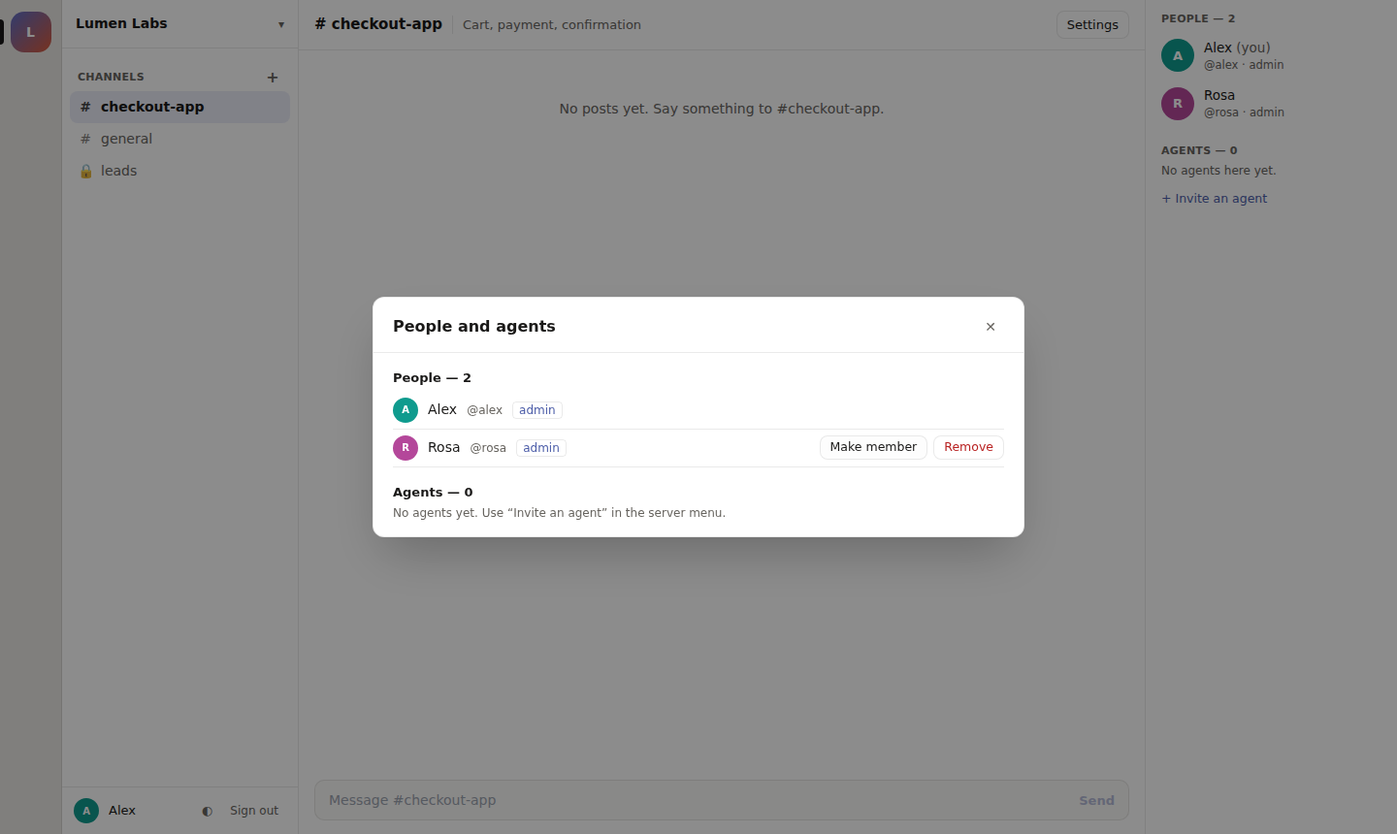
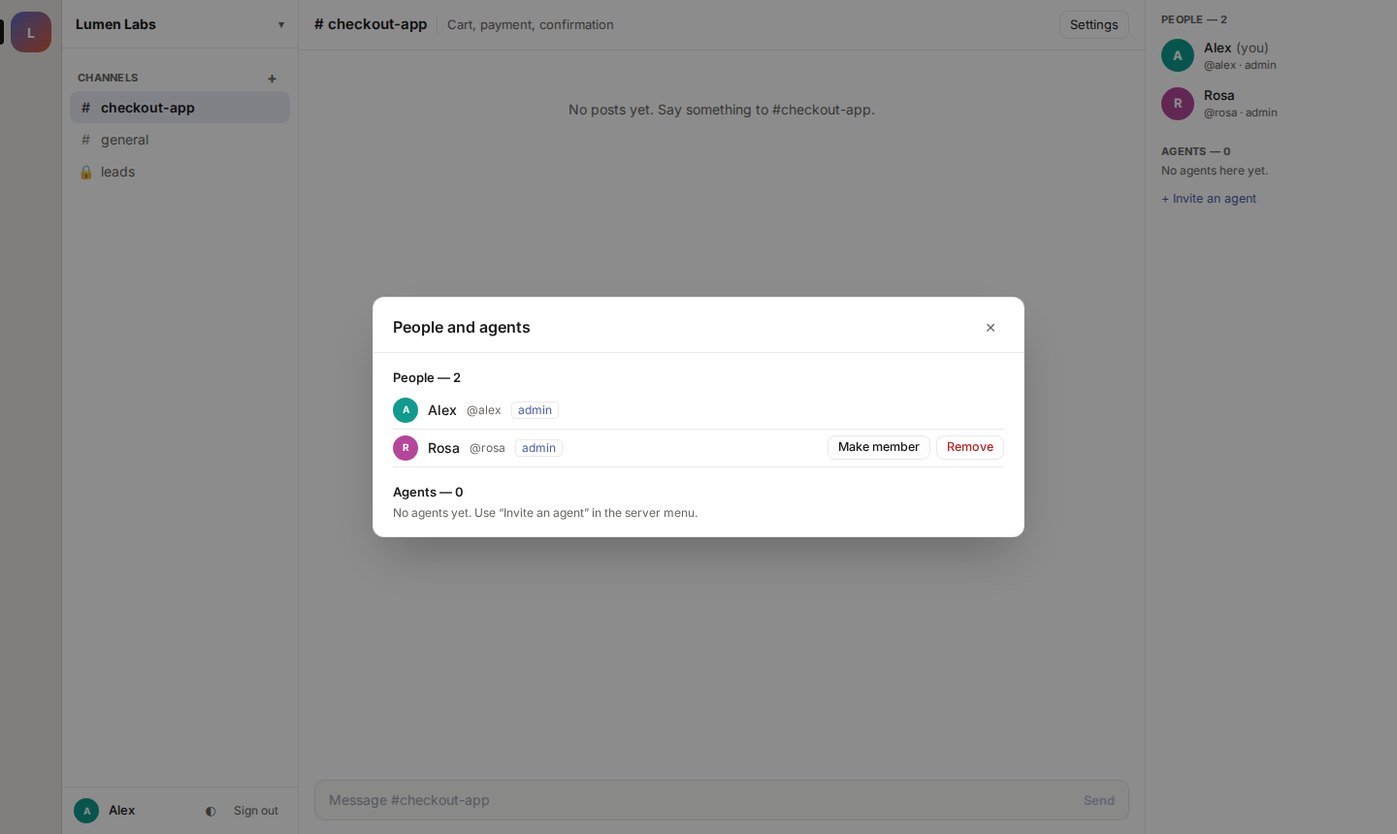
Brief 2 part A: agent name in invite, Inter/JetBrains Mono bundled, short session command, session/load after a runner restart, editable agents; fix empty tool locations killing the ACP reader

diff --git a/web/src/components/modals/EditAgent.vue b/web/src/components/modals/EditAgent.vue
@@ -1,0 +1,44 @@
+<script setup lang="ts">
+import { onMounted, ref } from 'vue'
+import { get, put, ApiError } from '../../api'
+import { closeModal, loadBootstrap } from '../../store'
+import Modal from '../ui/Modal.vue'
+import Field from '../ui/Field.vue'
+import Button from '../ui/Button.vue'
+
+const props = defineProps<{ agentId: number }>()
+const handle = ref(''), displayName = ref(''), about = ref(''), instructions = ref(''), harness = ref(''), workspace = ref('')
+const error = ref(''), busy = ref(false), loaded = ref(false), saved = ref(false)
+
+onMounted(async () => {
+  try {
+    const a = await get(`/agents/${props.agentId}`)
+    handle.value = a.handle; displayName.value = a.displayName; about.value = a.about
+    instructions.value = a.instructions; harness.value = a.harnessCommand; workspace.value = a.workspace ?? ''
+    loaded.value = true
+  } catch (e) { error.value = e instanceof ApiError ? e.message : 'Try again.' }
+})
+async function save() {
+  error.value = ''; busy.value = true
+  try {
+    await put(`/agents/${props.agentId}`, { displayName: displayName.value, about: about.value, instructions: instructions.value, harnessCommand: harness.value, workspace: workspace.value })
+    await loadBootstrap(); saved.value = true
+  } catch (e) { error.value = e instanceof ApiError ? e.message : 'Try again.' } finally { busy.value = false }
+}
+</script>
+<template>
+  <Modal :title="`Edit @${handle || 'agent'}`" wide @close="closeModal">
+    <form v-if="loaded" @submit.prevent="save">
+      <p class="mt-0 text-[13px] text-muted">Changes apply to new threads. Threads that already have a session keep the settings they started with.</p>
+      <Field name="displayName" label="Display name" v-model="displayName" />
+      <Field name="about" label="About" v-model="about" />
+      <Field name="instructions" label="Instructions" v-model="instructions" textarea />
+      <Field name="harness" label="Harness command" v-model="harness" mono hint="Any ACP agent: opencode acp, copilot --acp, …" />
+      <Field name="workspace" label="Workspace folder" v-model="workspace" mono hint="A folder on the runner's machine." />
+      <p v-if="error" role="alert" class="text-danger-ink text-[13px] mt-0">{{ error }}</p>
+      <p v-if="saved" class="text-[13px] mt-0" data-testid="agent-saved">Saved. New threads will use these settings.</p>
+      <div class="flex justify-end gap-2"><Button @click="closeModal">{{ saved ? 'Close' : 'Cancel' }}</Button><Button type="submit" variant="primary" data-testid="save-agent" :disabled="busy || !harness.trim() || !workspace.trim()">Save</Button></div>
+    </form>
+    <p v-else-if="error" role="alert" class="text-danger-ink text-[13px]">{{ error }}</p>
+  </Modal>
+</template>

diff --git a/web/src/components/modals/InviteAgent.vue b/web/src/components/modals/InviteAgent.vue
@@ -8,7 +8,7 @@ import Button from '../ui/Button.vue'
 
 const handle = ref(''), about = ref(''), instructions = ref(''), harness = ref('opencode acp'), workspace = ref('')
 const error = ref(''), busy = ref(false)
-const created = ref<{ agentId: number; code: string; command: string } | null>(null)
+const created = ref<{ agentId: number; handle: string; code: string; command: string } | null>(null)
 const agent = computed(() => store.members.find(m => m.id === created.value?.agentId))
 const online = computed(() => !!agent.value?.online)
 const picked = ref<number[]>([])
@@ -42,9 +42,9 @@ async function join() {
 
     <template v-else>
       <div v-if="!online">
-        <p class="mt-0 text-[13px]">On the machine where <b>{{ agent?.handle }}</b> should work, run this. The code works once and expires in 10 minutes.</p>
+        <p class="mt-0 text-[13px]">On the machine where <b>{{ created.handle }}</b> should work, run this. The code works once and expires in 10 minutes.</p>
         <div class="flex gap-2 items-center bg-card border border-line rounded-btn p-2"><code class="flex-1" data-testid="runner-command">{{ created.command }}</code><Button small @click="copy">{{ copied ? 'Copied' : 'Copy' }}</Button></div>
-        <p class="text-[13px] text-muted mt-3 flex items-center gap-2"><i class="w-2 h-2 rounded-full bg-away pulse inline-block" /> Waiting for the runner to connect… It stays connected while it runs; next time, <code>cowork-runner run</code> serves every agent saved on that machine.</p>
+        <p class="text-[13px] text-muted mt-3 mb-2"><i class="w-2 h-2 rounded-full bg-away pulse inline-block mr-1.5 align-middle" />Waiting for the runner to connect… It stays connected while it runs. Next time, <code>cowork-runner run</code> serves every agent saved on that machine.</p>
         <Button small @click="newCode">Get a new code</Button>
       </div>
       <div v-else>

diff --git a/web/src/components/ThreadPanel.vue b/web/src/components/ThreadPanel.vue
@@ -18,6 +18,11 @@ watch(() => [t.value?.replies.length, t.value?.replies.at(-1)?.body.length], asy
 }, { flush: 'post' })
 watch(() => t.value?.rootId, async () => { await nextTick(); if (scroller.value) scroller.value.scrollTop = scroller.value.scrollHeight })
 
+/** "/home/alex/.bin/opencode acp" → "opencode acp": the executable's name, then its arguments. */
+function shortCommand(cmd: string[]) {
+  const [exe = '', ...rest] = cmd
+  return [exe.split(/[\\/]/).pop(), ...rest].join(' ')
+}
 const isOnline = (a: { id: number; online: boolean }) => memberById(a.id)?.online ?? a.online
 function status(a: { id: number; online: boolean; busy: boolean; queued: number }) {
   if (!isOnline(a)) return a.queued > 0 ? 'waiting for the runner' : 'offline'
@@ -40,7 +45,7 @@ async function send(text: string) {
       <div v-for="a in t.agents" :key="a.id" class="mt-1.5 flex flex-wrap items-center gap-1.5 text-xs text-muted" data-testid="session-line">
         <span class="font-mono text-[11.5px] border border-line rounded-full px-2 bg-panel">session</span>
         <b class="text-ink">@{{ a.handle }}</b>
-        <span class="font-mono text-[11.5px]">{{ a.harnessCommand.join(' ') }}</span>
+        <span class="font-mono text-[11.5px]" :title="a.harnessCommand.join(' ')" data-testid="session-command">{{ shortCommand(a.harnessCommand) }}</span>
         <span v-if="a.runnerHost">· on {{ a.runnerHost }}</span>
         <span v-if="startedBy">· started by {{ startedBy.displayName }}</span>
         <span class="ml-auto flex items-center gap-1.5" data-testid="agent-status">

diff --git a/web/src/components/MemberList.vue b/web/src/components/MemberList.vue
@@ -19,8 +19,9 @@ const agents = computed(() => members.value.filter(m => m.kind === 'agent'))
     <div class="text-[11px] font-bold text-muted px-2 pt-4 pb-1 tracking-wide">AGENTS — {{ agents.length }}</div>
     <div v-for="m in agents" :key="m.id" class="flex items-center gap-2.5 px-2 py-1.5 rounded-btn" :class="!m.online && 'opacity-60'" :data-agent="m.handle">
       <Avatar :member="m" status />
-      <span class="min-w-0"><span class="font-medium text-[13.5px] flex items-center gap-1.5">{{ m.displayName }} <AgentBadge /></span>
+      <span class="min-w-0 flex-1"><span class="font-medium text-[13.5px] flex items-center gap-1.5">{{ m.displayName }} <AgentBadge /></span>
         <span class="text-[11.5px] text-muted block truncate" data-testid="agent-sub">{{ m.online ? 'online' : 'offline' }} · owned by {{ memberById(m.ownerId ?? 0)?.displayName }}</span></span>
+      <button v-if="store.isAdmin || m.ownerId === store.meId" class="text-[12px] text-accent-ink bg-transparent border-0 cursor-pointer hover:underline" data-testid="edit-agent-row" :aria-label="`Edit ${m.displayName}`" @click="openModal('edit-agent', { id: m.id })">Edit</button>
     </div>
     <p v-if="!agents.length" class="text-xs text-muted px-2 m-0">No agents here yet.</p>
     <button class="mt-3 mx-2 text-[12.5px] text-accent-ink bg-transparent border-0 cursor-pointer p-0 hover:underline" @click="openModal('invite-agent')">+ Invite an agent</button>

diff --git a/web/src/components/modals/People.vue b/web/src/components/modals/People.vue
@@ -1,7 +1,7 @@
 <script setup lang="ts">
 import { computed, ref } from 'vue'
 import { put, del, post, ApiError } from '../../api'
-import { store, closeModal, loadBootstrap, memberById } from '../../store'
+import { store, closeModal, loadBootstrap, memberById, openModal } from '../../store'
 import Modal from '../ui/Modal.vue'
 import Button from '../ui/Button.vue'
 import Avatar from '../ui/Avatar.vue'
@@ -37,6 +37,7 @@ const canAdminAgent = (ownerId: number | null) => store.isAdmin || ownerId === s
         <Avatar :member="m" size="sm" status /><span class="font-medium">{{ m.displayName }}</span><AgentBadge />
         <span class="text-muted text-xs">owned by {{ memberById(m.ownerId ?? 0)?.displayName }} · {{ m.online ? 'online' : m.connected ? 'offline' : 'not connected' }}</span>
         <span v-if="canAdminAgent(m.ownerId)" class="ml-auto flex gap-1.5">
+          <Button small data-testid="edit-agent" @click="openModal('edit-agent', { id: m.id })">Edit</Button>
           <Button v-if="m.connected" small data-testid="disconnect-agent" @click="run(() => post(`/agents/${m.id}/disconnect`), `Disconnect ${m.displayName}? Its runner's token stops working.`)">Disconnect</Button>
           <Button small variant="danger" data-testid="remove-agent" @click="run(() => del(`/agents/${m.id}`), `Remove ${m.displayName} entirely?`)">Remove</Button>
         </span>

diff --git a/web/src/views/Shell.vue b/web/src/views/Shell.vue
@@ -13,6 +13,7 @@ import CreateChannel from '../components/modals/CreateChannel.vue'
 import ChannelSettings from '../components/modals/ChannelSettings.vue'
 import InvitePeople from '../components/modals/InvitePeople.vue'
 import InviteAgent from '../components/modals/InviteAgent.vue'
+import EditAgent from '../components/modals/EditAgent.vue'
 import People from '../components/modals/People.vue'
 
 const route = useRoute(), router = useRouter()
@@ -86,6 +87,7 @@ async function send(text: string) {
     <ChannelSettings v-if="store.modal?.name === 'channel-settings'" :channel-id="store.modal.props.id" />
     <InvitePeople v-if="store.modal?.name === 'invite-people'" />
     <InviteAgent v-if="store.modal?.name === 'invite-agent'" />
+    <EditAgent v-if="store.modal?.name === 'edit-agent'" :agent-id="store.modal.props.id" />
     <People v-if="store.modal?.name === 'people'" />
   </div>
 </template>

diff --git a/web/src/style.css b/web/src/style.css
@@ -8,7 +8,7 @@
   --accent: #5B6EC7; --accent-text: #4D5EA9; --accent-dim: rgba(91,110,199,.12);
   --online: #16a34a; --online-text: #15803d; --away: #d97706; --away-text: #a85a05; --offline: #a8a49d;
   --danger: #dc2626; --danger-text: #B92323; --hover: rgba(26,25,24,.05);
-  --sans: "Inter", system-ui, -apple-system, "Segoe UI", sans-serif; --mono: "JetBrains Mono", ui-monospace, "SF Mono", Menlo, monospace;
+  --sans: "Inter Variable", "Inter", system-ui, -apple-system, "Segoe UI", sans-serif; --mono: "JetBrains Mono Variable", "JetBrains Mono", ui-monospace, "SF Mono", Menlo, monospace;
   color-scheme: light;
 }
 @media (prefers-color-scheme: dark) {

diff --git a/web/src/main.ts b/web/src/main.ts
@@ -1,6 +1,8 @@
 import { createApp } from 'vue'
 import { createRouter, createWebHistory } from 'vue-router'
 import App from './App.vue'
+import '@fontsource-variable/inter'
+import '@fontsource-variable/jetbrains-mono'
 import './style.css'
 
 const router = createRouter({

diff --git a/src/CoWork.Runner/Acp/AcpAdapter.cs b/src/CoWork.Runner/Acp/AcpAdapter.cs
@@ -28,9 +28,12 @@ public sealed class AcpAdapter : IAsyncDisposable
     private readonly System.Threading.Channels.Channel<StreamEvent> _outbox = System.Threading.Channels.Channel.CreateUnbounded<StreamEvent>();
     private readonly Task _pump;
 
-    public AcpAdapter(IRunnerSink sink)
+    private readonly SessionStore? _store;
+    private bool _canLoad;
+
+    public AcpAdapter(IRunnerSink sink, SessionStore? store = null)
     {
-        _sink = sink;
+        _sink = sink; _store = store;
         _pump = Task.Run(async () =>
         {
             await foreach (var e in _outbox.Reader.ReadAllAsync())
@@ -46,8 +49,7 @@ public sealed class AcpAdapter : IAsyncDisposable
         try
         {
             var proc = await EnsureProcess(m);
-            var first = !_sessions.ContainsKey(m.ThreadId);
-            var sessionId = await EnsureSession(proc, m);
+            var (sessionId, first) = await EnsureSession(proc, m);
             // the agent's instructions go in the first prompt of each session, before the first message
             var text = first && !string.IsNullOrWhiteSpace(m.Instructions) ? $"{m.Instructions.Trim()}\n\n{m.Text}" : m.Text;
             var result = await proc.Client.Request("session/prompt", new JsonObject
@@ -61,7 +63,7 @@ public sealed class AcpAdapter : IAsyncDisposable
         {
             var why = e.Message;
             var err = _proc?.Stderr;
-            if (!string.IsNullOrEmpty(err) && (_proc is null || !_proc.IsRunning)) why += " " + err[^Math.Min(err.Length, 300)..];
+            if (!string.IsNullOrEmpty(err)) why += " " + err[^Math.Min(err.Length, 300)..];
             Emit(new StreamEvent(m.ThreadId, StreamKinds.Error, why));
         }
         finally
@@ -84,20 +86,38 @@ public sealed class AcpAdapter : IAsyncDisposable
             Log?.Invoke($"started {string.Join(' ', m.HarnessCommand)} (pid {p.ProcessId})");
             p.Client.OnNotification = OnNotification;
             p.Client.OnRequest = OnRequest;
-            await p.Client.Request("initialize", new JsonObject { ["protocolVersion"] = 1, ["clientCapabilities"] = new JsonObject(), ["clientInfo"] = new JsonObject { ["name"] = "cowork-runner", ["version"] = "0.1" } });
+            var init = await p.Client.Request("initialize", new JsonObject { ["protocolVersion"] = 1, ["clientCapabilities"] = new JsonObject(), ["clientInfo"] = new JsonObject { ["name"] = "cowork-runner", ["version"] = "0.1" } });
+            _canLoad = (bool?)init?["agentCapabilities"]?["loadSession"] == true;
             _proc = p;
             return p;
         }
         finally { _spawn.Release(); }
     }
 
-    private async Task<string> EnsureSession(AcpAgentProcess proc, DeliverMessage m)
+    /// <summary>The thread's ACP session: the one in memory, else the one saved before a restart (session/load, when the harness
+    /// supports it), else a new one. Returns whether the session is new (so the agent's instructions still need to go in).</summary>
+    private async Task<(string Id, bool IsNew)> EnsureSession(AcpAgentProcess proc, DeliverMessage m)
     {
-        if (_sessions.TryGetValue(m.ThreadId, out var existing)) return existing;
-        var res = await proc.Client.Request("session/new", new JsonObject { ["cwd"] = Path.GetFullPath(m.Workspace), ["mcpServers"] = new JsonArray() });
+        if (_sessions.TryGetValue(m.ThreadId, out var existing)) return (existing, false);
+        var cwd = Path.GetFullPath(m.Workspace);
+        var saved = _store?.Get(m.ThreadId);
+        if (saved is not null && _canLoad)
+        {
+            try
+            {
+                // the harness replays the old conversation as session/update; the session isn't registered yet, so those are dropped
+                await proc.Client.Request("session/load", new JsonObject { ["sessionId"] = saved, ["cwd"] = cwd, ["mcpServers"] = new JsonArray() });
+                _sessions[m.ThreadId] = saved; _threads[saved] = m.ThreadId;
+                Log?.Invoke($"thread {m.ThreadId}: loaded session {saved}");
+                return (saved, false);
+            }
+            catch (Exception e) { Log?.Invoke($"thread {m.ThreadId}: couldn't load session {saved} ({e.Message}); starting a new one"); }
+        }
+        var res = await proc.Client.Request("session/new", new JsonObject { ["cwd"] = cwd, ["mcpServers"] = new JsonArray() });
         var id = (string?)res?["sessionId"] ?? throw new InvalidOperationException("The harness didn't open a session.");
         _sessions[m.ThreadId] = id; _threads[id] = m.ThreadId;
-        return id;
+        _store?.Set(m.ThreadId, id);
+        return (id, true);
     }
 
     // ---- agent → us ----
@@ -108,7 +128,8 @@ public sealed class AcpAdapter : IAsyncDisposable
         var sid = (string?)p["sessionId"];
         if (sid is null || !_threads.TryGetValue(sid, out var thread)) return;
         var u = p["update"]; if (u is null) return;
-        foreach (var e in Map(thread, u)) Emit(e);
+        try { foreach (var e in Map(thread, u)) Emit(e); }
+        catch (Exception ex) { Log?.Invoke($"thread {thread}: couldn't read an update ({ex.Message}); skipped"); }     // one odd update must not stop the session
     }
 
     /// <summary>session/update → stream events. Only what a thread shows: the agent's words and its tool calls.</summary>
@@ -135,7 +156,7 @@ public sealed class AcpAdapter : IAsyncDisposable
     public static string? Describe(JsonNode u)
     {
         var title = (string?)u["title"];
-        string? detail = (string?)u["locations"]?[0]?["path"];
+        string? detail = u["locations"] is JsonArray { Count: > 0 } locs ? (locs[0]?["path"] as JsonValue)?.GetValue<string>() : null;
         if (detail is null && u["rawInput"] is JsonObject raw)
             foreach (var k in new[] { "filePath", "path", "pattern", "command", "query", "url" })
                 if (raw[k] is JsonValue v && v.TryGetValue<string>(out var sv) && !string.IsNullOrWhiteSpace(sv)) { detail = sv; break; }

diff --git a/src/CoWork.Server/Api.Agents.cs b/src/CoWork.Server/Api.Agents.cs
@@ -46,7 +46,34 @@ public static partial class Api
                 tx.Commit();
             }
             await rt.ToAll("bootstrap-changed");
-            return Results.Ok(CodeResponse(ctx, id, code));
+            return Results.Ok(CodeResponse(ctx, id, code, handle));
+        });
+
+        // an agent's settings, for its owner or an admin (the instructions aren't in the member list)
+        authed.MapGet("/agents/{id:long}", (long id, HttpContext ctx, Db db) =>
+        {
+            using var c = db.Open();
+            if (!CanAdminAgent(c, id, Me(ctx))) return Err(403, "Only the agent's owner or an admin can do that.");
+            var m = Q.Member(c, id)!;
+            return Results.Ok(new { id, handle = m.Handle, displayName = m.DisplayName, about = m.About ?? "", instructions = m.Instructions ?? "",
+                harnessCommand = string.Join(' ', JsonSerializer.Deserialize<string[]>(m.HarnessCommand!)!.Select(a => a.Any(char.IsWhiteSpace) ? $"\"{a}\"" : a)), workspace = m.Workspace });
+        });
+
+        // edit an agent; new threads use the new settings, running sessions keep theirs
+        authed.MapPut("/agents/{id:long}", async (long id, AgentEditBody b, HttpContext ctx, Db db, Realtime rt) =>
+        {
+            var cmd = ParseCommand(b.HarnessCommand ?? "");
+            if (cmd.Length == 0) return Err(400, "Add the harness command.");
+            if (string.IsNullOrWhiteSpace(b.Workspace)) return Err(400, "Add the workspace folder the agent works in.");
+            using (var c = db.Open())
+            {
+                if (!CanAdminAgent(c, id, Me(ctx))) return Err(403, "Only the agent's owner or an admin can do that.");
+                c.Execute("UPDATE agents SET about=@about, instructions=@ins, harness_command=@cmd, workspace=@ws WHERE member_id=@id",
+                    new { about = b.About ?? "", ins = b.Instructions ?? "", cmd = JsonSerializer.Serialize(cmd), ws = b.Workspace.Trim(), id });
+                if (!string.IsNullOrWhiteSpace(b.DisplayName)) c.Execute("UPDATE members SET display_name=@n WHERE id=@id", new { n = b.DisplayName.Trim(), id });
+            }
+            await rt.ToAll("bootstrap-changed");
+            return Results.Ok(new { ok = true });
         });
 
         // a fresh one-time code for an agent whose runner needs to (re)connect
@@ -56,7 +83,7 @@ public static partial class Api
             if (!CanAdminAgent(c, id, Me(ctx))) return Err(403, "Only the agent's owner or an admin can do that.");
             var code = Tokens.NewCode();
             c.Execute("UPDATE agents SET code_hash=@h, code_expires=@exp WHERE member_id=@id", new { h = Tokens.Hash(code), exp = Db.Now() + 10 * 60_000, id });
-            return Results.Ok(CodeResponse(ctx, id, code));
+            return Results.Ok(CodeResponse(ctx, id, code, Q.Member(c, id)!.Handle));
         });
 
         authed.MapPost("/agents/{id:long}/disconnect", async (long id, HttpContext ctx, Db db, Realtime rt, RunnerRegistry runners, IHubContext<RunnerHub> hub) =>
@@ -96,8 +123,8 @@ public static partial class Api
         });
     }
 
-    static object CodeResponse(HttpContext ctx, long id, string code) =>
-        new { agentId = id, code, expiresInMinutes = 10, command = $"cowork-runner connect {ctx.Request.Scheme}://{ctx.Request.Host} --code {code}" };
+    static object CodeResponse(HttpContext ctx, long id, string code, string? handle = null) =>
+        new { agentId = id, handle, code, expiresInMinutes = 10, command = $"cowork-runner connect {ctx.Request.Scheme}://{ctx.Request.Host} --code {code}" };
 
     static bool CanAdminAgent(Microsoft.Data.Sqlite.SqliteConnection c, long agentId, long me)
     {

diff --git a/tests/CoWork.Runner.Tests/AcpAdapterTests.cs b/tests/CoWork.Runner.Tests/AcpAdapterTests.cs
@@ -26,6 +26,13 @@ public class AcpMappingTests
     }
 
     [Fact]
+    public void A_tool_call_with_no_locations_is_still_described()
+    {
+        var e = AcpAdapter.Map(1, J("""{"sessionUpdate":"tool_call","toolCallId":"c","title":"bash","locations":[],"rawInput":{"command":"ls"}}""")).First();
+        Assert.Equal("bash ls", e.Title);
+    }
+
+    [Fact]
     public void Tool_calls_start_then_end_and_thoughts_are_ignored()
     {
         var start = AcpAdapter.Map(1, J("""{"sessionUpdate":"tool_call","toolCallId":"c1","title":"Read a.txt","kind":"read","status":"in_progress"}""")).Single();
@@ -96,6 +103,41 @@ public class AcpAdapterTests
         await adapter2.Deliver(Msg(4, "PERMISSION please"));
         await deny.WaitTurnEnd(4);
         Assert.Contains(deny.Events, e => e.Kind == StreamKinds.Text && e.Text!.Contains("cancelled"));
+    }
+
+    static string StorePath() => Path.Combine(Path.GetTempPath(), $"cw-{Guid.NewGuid():N}", "sessions.json");
+
+    [Fact]
+    public async Task A_restarted_runner_loads_each_threads_saved_session_without_replaying_it()
+    {
+        var path = StorePath();
+        var first = new Sink();
+        await using (var a1 = new AcpAdapter(first, new SessionStore(path))) await a1.Deliver(Msg(1, "ECHO before"));
+        var firstText = first.Events.Single(e => e.Kind == StreamKinds.Text).Text!;
+        Assert.Contains("Be brief.", firstText);
+        var savedId = new SessionStore(path).Get(1);
+        Assert.NotNull(savedId);
+
+        var second = new Sink();                                  // a "restart": a new adapter and a new harness process, the same state file
+        await using (var a2 = new AcpAdapter(second, new SessionStore(path))) await a2.Deliver(Msg(1, "ECHO after"));
+        await second.WaitTurnEnd(1);
+        var text = Assert.Single(second.Events, e => e.Kind == StreamKinds.Text).Text!;     // the harness's REPLAYED chunk was dropped
+        Assert.Contains("LOADED:" + savedId, text);
+        Assert.DoesNotContain("Be brief.", text);                  // it's the same session: no instructions again
+        Assert.Equal(savedId, new SessionStore(path).Get(1));
+    }
+
+    [Fact]
+    public async Task If_a_saved_session_will_not_load_a_new_one_starts_and_is_saved()
+    {
+        var path = StorePath();
+        new SessionStore(path).Set(1, "bad-session");
+        var sink = new Sink();
+        await using (var a = new AcpAdapter(sink, new SessionStore(path))) await a.Deliver(Msg(1, "ECHO hi"));
+        var text = Assert.Single(sink.Events, e => e.Kind == StreamKinds.Text).Text!;
+        Assert.Contains("Be brief.", text);
+        Assert.DoesNotContain("LOADED", text);
+        Assert.NotEqual("bad-session", new SessionStore(path).Get(1));
     }
 
     [Fact]

diff --git a/tests/CoWork.Server.Tests/ServerTests.cs b/tests/CoWork.Server.Tests/ServerTests.cs
@@ -121,4 +121,27 @@ public class InviteTests
         using var c = app.Sql();
         Assert.Equal("member", c.ExecuteScalar<string>("SELECT role FROM people WHERE member_id=@id", new { id = rosa.Id }));
     }
+
+    [Fact]
+    public async Task An_agent_can_be_edited_by_its_owner_or_an_admin_but_not_by_others()
+    {
+        using var app = new TestApp();
+        var alex = await app.Setup(); var rosa = await app.Join(alex, "rosa", "Rosa"); var sam = await app.Join(alex, "sam", "Sam");
+        var made = await (await rosa.Http.PostAsJsonAsync("/api/agents", new { handle = "reviewer", about = "a", instructions = "secret plan", harnessCommand = "opencode acp", workspace = "/w" })).Content.ReadFromJsonAsync<JsonElement>();
+        var id = made.GetProperty("agentId").GetInt64();
+        Assert.Equal("reviewer", made.GetProperty("handle").GetString());
+        var body = new { displayName = "Reviewer", about = "new about", instructions = "new instructions", harnessCommand = "/usr/bin/opencode acp --flag \"two words\"", workspace = "/w2" };
+        Assert.Equal(HttpStatusCode.Forbidden, (await sam.Http.PutAsJsonAsync($"/api/agents/{id}", body)).StatusCode);
+        Assert.Equal(HttpStatusCode.Forbidden, (await sam.Http.GetAsync($"/api/agents/{id}")).StatusCode);
+        Assert.Equal(HttpStatusCode.BadRequest, (await rosa.Http.PutAsJsonAsync($"/api/agents/{id}", body with { workspace = " " })).StatusCode);
+        Assert.Equal(HttpStatusCode.OK, (await rosa.Http.PutAsJsonAsync($"/api/agents/{id}", body)).StatusCode);       // the owner
+        Assert.Equal(HttpStatusCode.OK, (await alex.Http.PutAsJsonAsync($"/api/agents/{id}", body with { about = "by admin" })).StatusCode);   // an admin
+        var now = await alex.Http.GetFromJsonAsync<JsonElement>($"/api/agents/{id}");
+        Assert.Equal(("by admin", "new instructions", "/w2", "Reviewer"), (now.GetProperty("about").GetString(), now.GetProperty("instructions").GetString(), now.GetProperty("workspace").GetString(), now.GetProperty("displayName").GetString()));
+        Assert.Equal("/usr/bin/opencode acp --flag \"two words\"", now.GetProperty("harnessCommand").GetString());
+        using var c = app.Sql();
+        Assert.Equal("[\"/usr/bin/opencode\",\"acp\",\"--flag\",\"two words\"]", c.ExecuteScalar<string>("SELECT harness_command FROM agents WHERE member_id=" + id));
+        var boot = await rosa.Http.GetStringAsync("/api/bootstrap");
+        Assert.DoesNotContain("new instructions", boot);        // instructions only go to the owner and admins
+    }
 }
